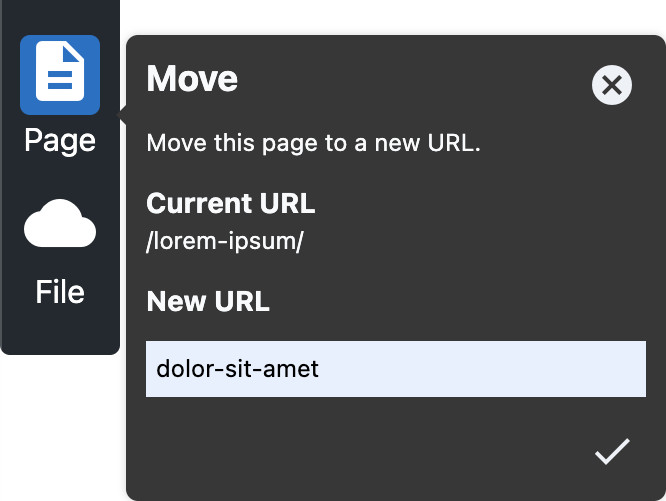
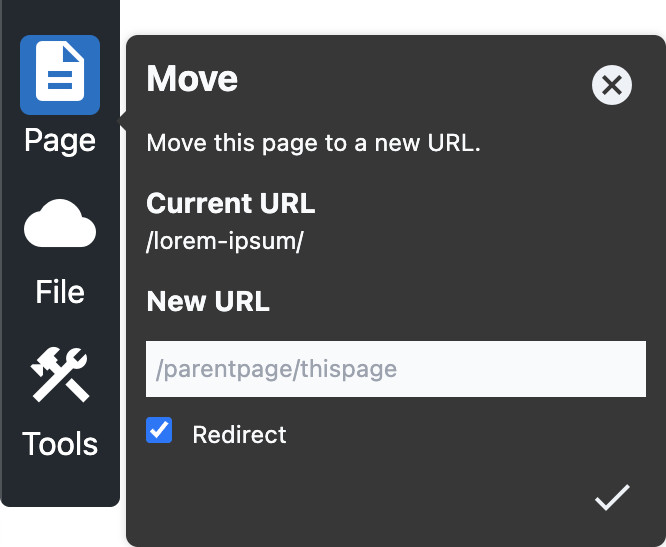
Update Move and Delete pages with redirect info

diff --git a/packages/bodiless-documentation/doc/ContentEditorUserGuide/PageMenu/Delete/README.md b/packages/bodiless-documentation/doc/ContentEditorUserGuide/PageMenu/Delete/README.md
@@ -4,15 +4,21 @@ From the [_Page_ menu](../), click the **Delete** button to delete the current p
 
 ![Delete Page icon](./assets/PageDeleteIcon.jpg ':size=60')
 
+If desired, the delete operation can also create a 301 redirect, sending users from the path/URL of
+the deleted page to one of your choosing.
+
 To delete a page:
 
-01. From the page you wish to delete, open the _Page_ menu, and click the **Delete** button.
-01. You will be asked if you are sure you want to delete the current page.  
-    ![Delete Page - Are you sure you want to delete the current page?](./assets/PageDeletePage.jpg
-    ':size=65%')
-    * Click the checkmark to confirm.
-    * Click the "X" icon to cancel.
-01. A spinner will appear while your page is being deleted.
+01. From the page you wish to delete, click **Page > Delete** to open the _Delete Page_ form.
+    ![Delete Page form](./assets/PageDeletePage.jpg ':size=65%')
+01. If you want your users to be sent to a different page when they attempt to go to the path/URL of
+    the deleted page, enter the desired path/URL of the redirect into the _Add optional redirect_
+    field.
+    * This will create a redirect with an HTTP response status code of `301`; if you want to create
+      a redirect with a different status code, you can use the [Aliases](../../ToolsMenu/Aliases/)
+      tool.
+01. Click the checkmark to confirm. (Or click the "X" icon to cancel.)
+    * A spinner will appear while your page is being deleted.
     * If successful, you will see a confirmation message, and, upon closing it, you'll be redirected
       to the deleted page's parent page.  
       ![Delete operation was successful](./assets/PageDeleteOperationSuccessful.jpg ':size=50%')

diff --git a/packages/bodiless-documentation/doc/ContentEditorUserGuide/PageMenu/Move/README.md b/packages/bodiless-documentation/doc/ContentEditorUserGuide/PageMenu/Move/README.md
@@ -9,15 +9,22 @@ new URL you wish to use for the page.
 
 * In changing the path/URL of the page, the move operation will relocate the page and its associated
   JSON files within the file structure.
+* If desired, the move operation can also create a 301 redirect, sending users from the previous
+  path/URL to the new one.
 
 To move an existing page:
 
 01. Navigate to the page you wish to move.
 01. From the [Toolbar](../../#toolbar), click **Page > Move** to open the _Move_ form.  
     ![Move Page form](./assets/PageMovePage.jpg ':size=50%')
-01. In the _New URL_ field, enter the URL you wish to move the page to, and click the checkmark to
-    confirm.
+01. In the _New URL_ field, enter the URL you wish to move the page to.
     * **Note:** There are [restrictions](#restrictions) on the URL provided.
+01. By default, the _Redirect_ checkbox is checked: upon page move, a 301 redirect will be created,
+    redirecting your users from the _Current URL_ to the _New URL_.
+    * Uncheck this box if you don't want to create a redirect.
+    * If you want to create a redirect with an HTTP response status code other than `301`, you can
+      use the [Aliases](../../ToolsMenu/Aliases/) tool.
+01. Click the checkmark to confirm.
     * A spinner will appear while your page is being moved.
 01. Once your page has been moved, you will see a modal confirming that the "Move operation was
     successful," and, upon closing it, you will be redirected to the page's new URL.  

diff --git a/packages/bodiless-documentation/doc/ContentEditorUserGuide/PageMenu/README.md b/packages/bodiless-documentation/doc/ContentEditorUserGuide/PageMenu/README.md
@@ -12,7 +12,7 @@ the current page, as well as add a new page. To access all of these features, yo
 ![Page menu in Review Mode](./assets/PageMenuReviewMode.jpg ':size=50%')
 
 **Edit Mode**  
-![Page menu in Edit Mode](./assets/PageMenuEditMode.jpg ':size=50%')
+![Page menu in Edit Mode](./assets/PageMenuEditMode.jpg ':size=67%')
 
 In the _Page_ menu, you will find the following items:
 
